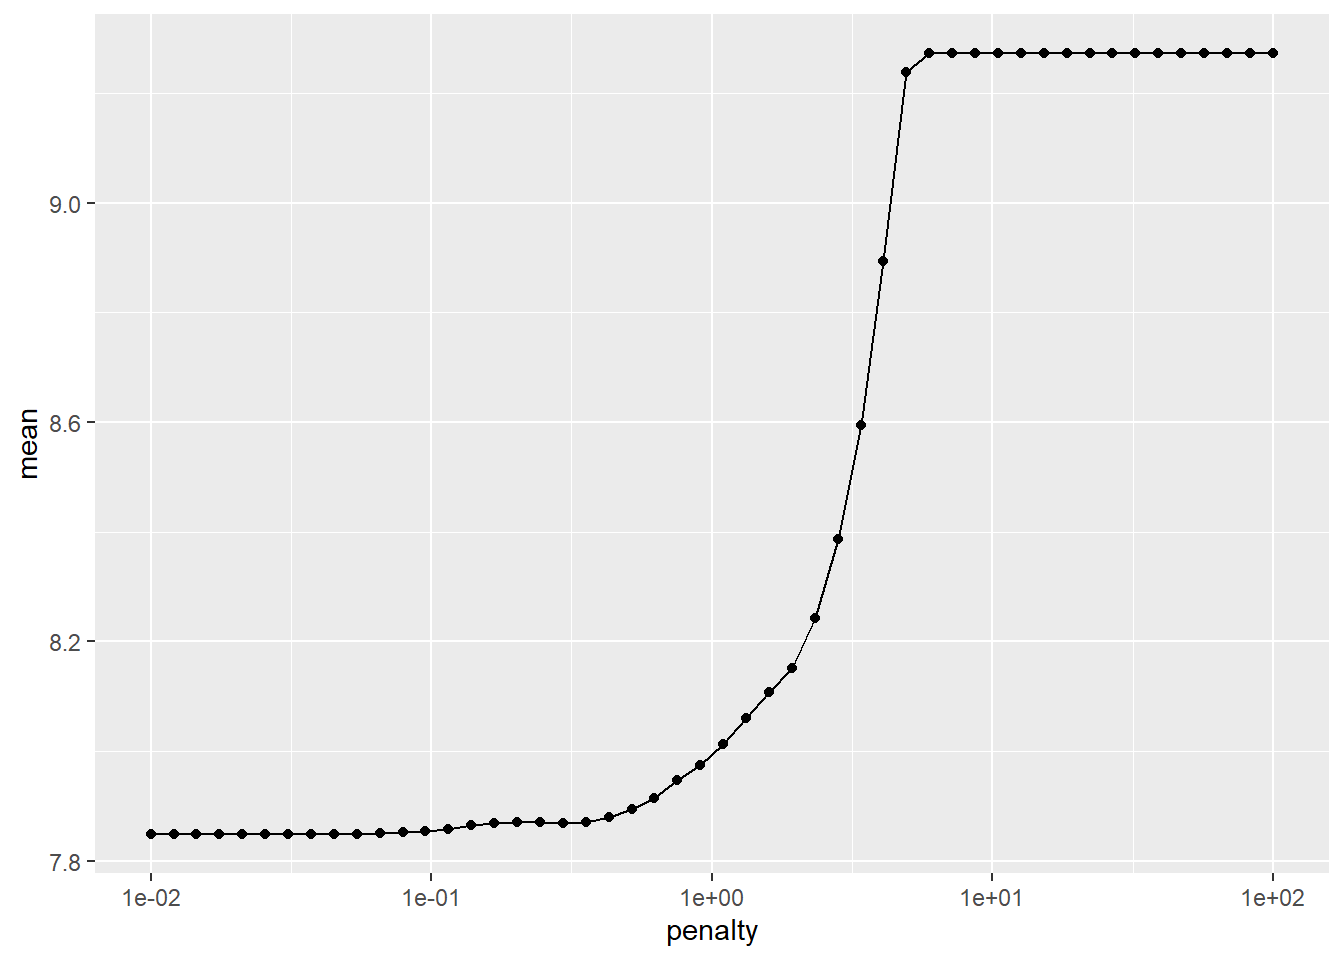
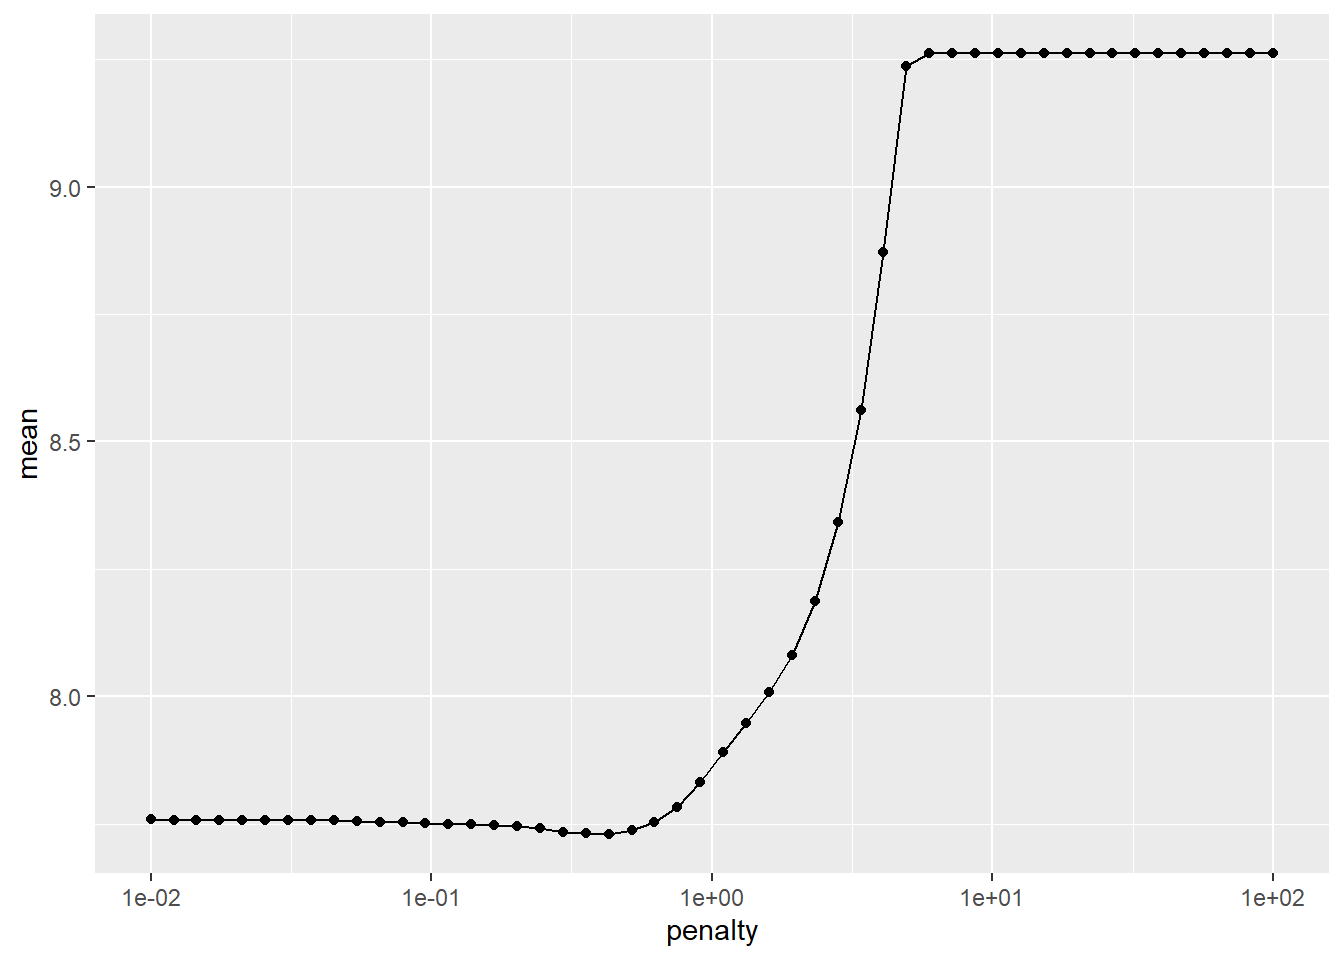
idk

diff --git a/docs/FinalProject.html b/docs/FinalProject.html
@@ -682,7 +682,7 @@ New names:
 <pre><code># A tibble: 1 × 2
   penalty .config              
     &lt;dbl&gt; &lt;chr&gt;                
-1  0.0121 Preprocessor1_Model02</code></pre>
+1   0.429 Preprocessor1_Model21</code></pre>
 </div>
 <div class="sourceCode cell-code" id="cb20"><pre class="sourceCode r code-with-copy"><code class="sourceCode r"><span id="cb20-1"><a href="#cb20-1" aria-hidden="true" tabindex="-1"></a>lasso_wflow_final <span class="ot">&lt;-</span> kcc_lasso_wflow <span class="sc">|&gt;</span></span>
 <span id="cb20-2"><a href="#cb20-2" aria-hidden="true" tabindex="-1"></a>  <span class="fu">finalize_workflow</span>(<span class="at">parameters =</span> lasso_best) </span></code><button title="Copy to Clipboard" class="code-copy-button"><i class="bi"></i></button></pre></div>
@@ -699,16 +699,16 @@ New names:
 <pre><code># A tibble: 10 × 3
    term        estimate penalty
    &lt;chr&gt;          &lt;dbl&gt;   &lt;dbl&gt;
- 1 (Intercept)   27.8    0.0121
- 2 PtA           -1.01   0.0121
- 3 FirstD         1.12   0.0121
- 4 TotYd          3.89   0.0121
- 5 PassY          0      0.0121
- 6 RushY          0.965  0.0121
- 7 FirstD_Alwd    2.08   0.0121
- 8 TotYd_Alwd     0      0.0121
- 9 PassY_Alwd     0.812  0.0121
-10 RushY_Alwd    -0.499  0.0121</code></pre>
+ 1 (Intercept)   27.8     0.429
+ 2 PtA            0       0.429
+ 3 FirstD         0.675   0.429
+ 4 TotYd          3.68    0.429
+ 5 PassY          0       0.429
+ 6 RushY          0.751   0.429
+ 7 FirstD_Alwd    0.994   0.429
+ 8 TotYd_Alwd     0       0.429
+ 9 PassY_Alwd     0.568   0.429
+10 RushY_Alwd    -0.130   0.429</code></pre>
 </div>
 </div>
 <p>Here we can see that important variables include Points Allowed (PtA), First Down Count (FirstD), Total Yards (TotYd), total Rusing Yards (RushY), First Downs Allowed (FirstD_Alwd), Passing Yards Allowed (PassY_Alwd) and Rushing Yards Allowed (RushY_Alwd). We will proceed to use these variables in our following models.</p>
